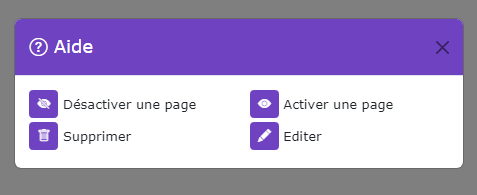
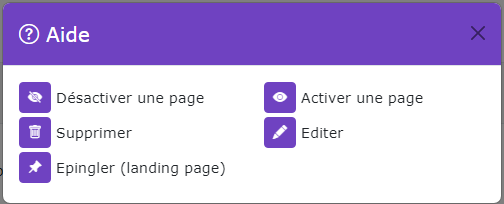
Mise à jour doc, ajout landing_page

diff --git a/Docs/Fonctionnelles/Administration/Content/Page/page.md b/Docs/Fonctionnelles/Administration/Content/Page/page.md
@@ -15,15 +15,17 @@ Droit d'accès : **ROLE_CONTRIBTEUR**
 Nom entité : **Page**  
 Nom de la table en bdd : **natheo.page**
 
-| Nom        | Type      | Null | Valeur par défaut  |
-|------------|-----------|------|--------------------|
-| id         | 	Int(11)  | 	Non | 	Aucune            |
-| user_id    | 	Int(11)  | 	Non | 	Aucune            |
-| render     | 	Int(11)  | 	Non | 	Aucune            |
-| status     | 	Int(11)  | 	Non | 	Aucune            |
-| disabled   | 	boolean  | 	Non | 	Aucune            |
-| created_at | 	datetime | 	Non | 	CURRENT_TIMESTAMP |
-| update_at  | 	datetime | 	Oui | 	NULL              |
+| Nom          | Type      | Null | Valeur par défaut  |
+|--------------|-----------|------|--------------------|
+| id           | 	Int(11)  | 	Non | 	Aucune            |
+| user_id      | 	Int(11)  | 	Non | 	Aucune            |
+| render       | 	Int(11)  | 	Non | 	Aucune            |
+| status       | 	Int(11)  | 	Non | 	Aucune            |
+| disabled     | 	boolean  | 	Non | 	Aucune            |
+| category     | Int(11)   | non  | Aucune             |
+| landing_page | boolean   | non  | Aucune             |
+| created_at   | 	datetime | 	Non | 	CURRENT_TIMESTAMP |
+| update_at    | 	datetime | 	Oui | 	NULL              |
 
 Nom entité : **PageTranslation**  
 Nom de la table en bdd : **natheo.page_translation**
@@ -152,6 +154,11 @@ Voir [Modifier une page](add_edit_page.md);
 #### Créer un page
 Permet de pouvoir créer une nouvelle page
 Voir [Modifier une page](add_edit_page.md);
+
+#### Épingler
+Permet de définir la page comme landing-page. Cette page sera celle affichée par défaut sur votre page d'accueil.
+
+Il ne peut y avoir qu'une seule landing page
 
 ## Fixtures
 Path du fichier de données : ``src/DataFixtures/data/content/page/page_fixtures_data.yaml``  
